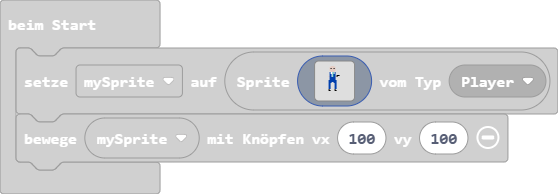
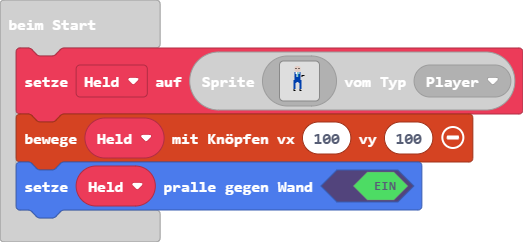
Aktualisiere main.blocks, main.ts

diff --git a/main.ts b/main.ts
@@ -1,4 +1,4 @@
-let mySprite = sprites.create(img`
+let Held = sprites.create(img`
     ................................
     ............dddd................
     ...........dddddd...............
@@ -32,7 +32,8 @@ let mySprite = sprites.create(img`
     ................................
     ................................
     `, SpriteKind.Player)
-controller.moveSprite(mySprite, 100, 100)
+controller.moveSprite(Held, 100, 100)
+Held.setBounceOnWall(true)
 game.onUpdate(function () {
 	
 })
